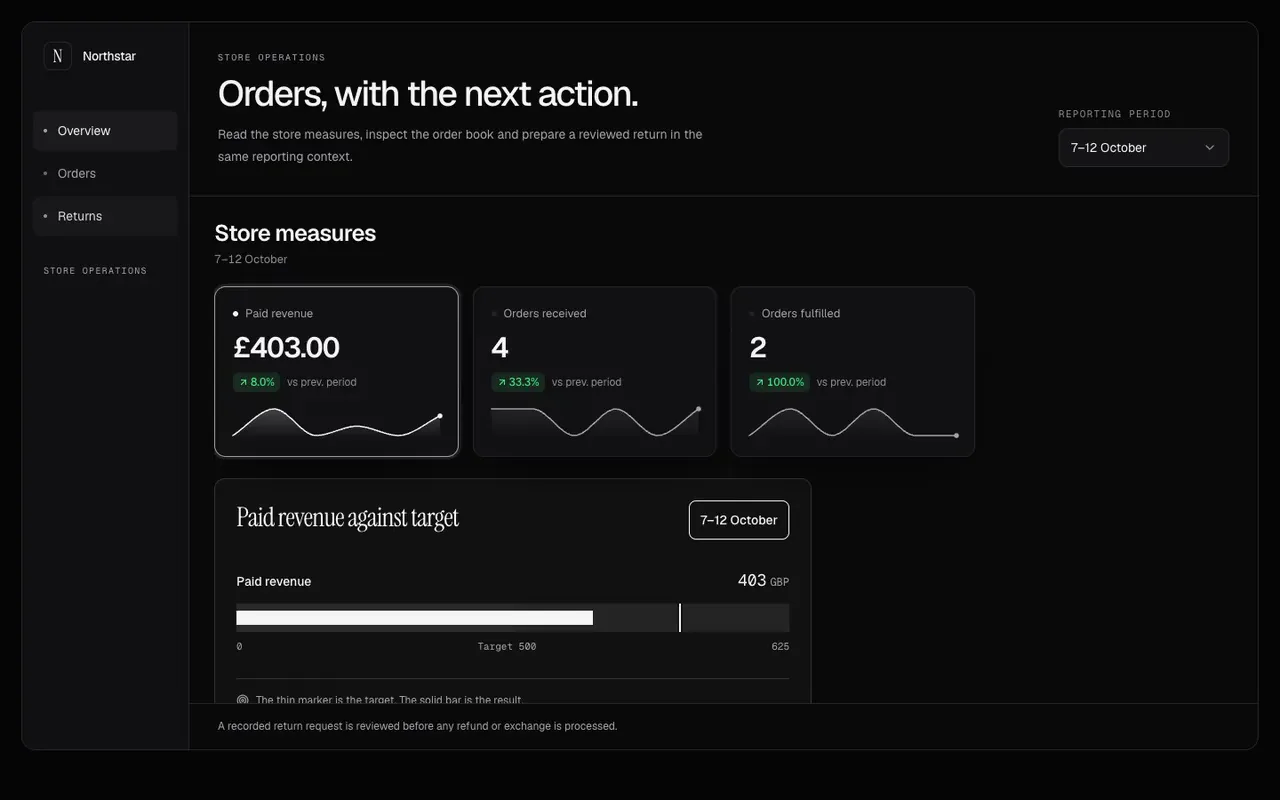
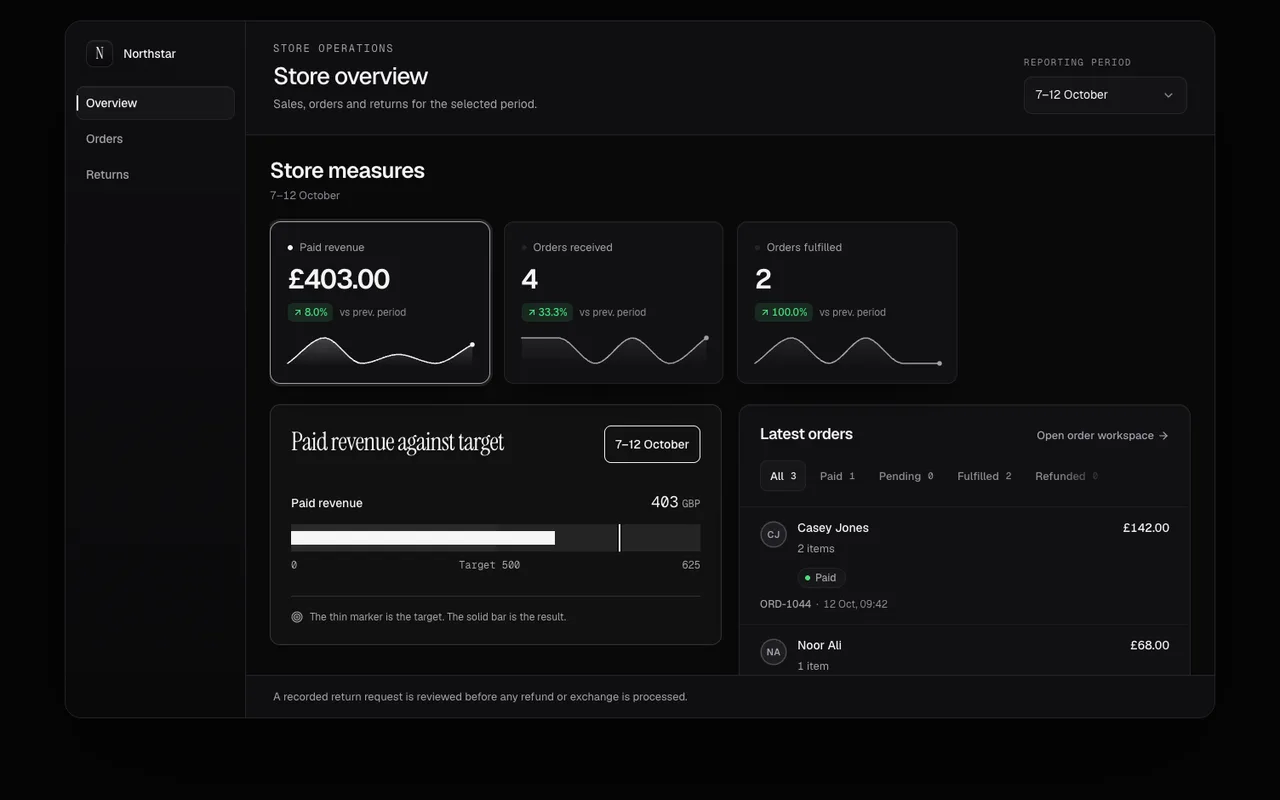
Verify commerce workspace flows and refresh its poster

diff --git a/docs/review/HANDOFF_TASKS.md b/docs/review/HANDOFF_TASKS.md
@@ -398,7 +398,18 @@ and how to know it's done. Pick any of them up independently. Background, briefs
 
 - Task 7 (19 October): Folding Breadcrumb retains its compact route rail, real ancestor links and plain current-page label. Stable href/occurrence keys preserve focus through ancestor reordering. Expanding and collapsing transfer focus to the surviving control; removing focused controls retains focus in the landmark without reclaiming it after an outside button or primary blank-space click. Wrapped ancestor labels retain inner padding. Its owned 320ms entrance settles immediately on live reduced-motion changes. Three original-source failures are retained. Its 39-mount source review, twenty accessibility audits, six widths, reviewed state/entrance captures, Next and existing input regressions, theme control, official audit and exact folded/expanded/refolded replay pass. Native link navigation, keyboard disclosure, empty and short paths, long copy, independent landmarks and every phone preview state at 320/390px are covered. The API stays unchanged. Strict registry, root/isolated types and all 1,066 tests pass. Its reviewed 3.8s film and paired poster retain the folded, expanded and refolded path in the measured 832×600 frame: source gap 11ms, delivery 13.55ms and moving-frame p95 25.60ms, with no stalls and unchanged guards. The next complete batch has 65 suites and 94 metadata replays and remains pending. 0 components and 12 blocks remain; 117 films remain queued.
 
-## 1. Re-record demo videos (117 components)
+- Task 7 (19 October): Commerce Workspace now uses compact view-specific headings, a target/order overview that expands across wide containers and one store identity throughout Returns. Modified order links preserve browser intent; empty copy and disabled selectors name their period/order context. Separate period/order drafts, retry, pending requests across period changes, unavailable handlers, arriving data and phone action reachability pass. Its 33-mount source review, 32 accessibility audits, six widths and all 46 reviewed state/entrance captures pass. The registered workflow retains the contrast and narrow-card dependency regressions. Normal-motion headings must finish visibly in the actual Next preview. All eight block metadata replays pass; Commerce verifies item/reason changes, editing, review and the final read-only request receipt. Controls, official audit, strict registry, root/all-eleven-block types and all 1,066 unit tests pass. The public API and Pro dependency boundary stay unchanged. Its reviewed settled Next poster is current. The film fails unchanged timing guards (source gap 37ms, delivery 106.73ms and moving-frame p95 25.93ms; one 109.45ms moving-frame gap); the old film is retained and rejected raw evidence stays local. This is the first completed block review. Ten blocks, 59 older probes and 118 films remain. The next complete batch release checkpoint remains pending.
+
+Block replay verification (19 October): the full software-rendered run missed People onboarding. Unchanged
+isolated software and native runs both pass, but software records a 3,033.5ms frame gap versus 40.8ms native.
+A deliberate 2,200ms settling-timer stall suppresses the same navigation click and end state. The original
+failure had no frame trace, so its exact cause remains an inference. Block metadata replays now use native
+rendering, matching component replays, with all target, settling and final-state assertions retained. All eight
+pass together, followed by a fresh Commerce replay after its final empty-selector copy change. Future failures
+save their screenshot, body and error. The corrected viewport restoration also keeps Commerce's phone checks
+from changing subsequent block tests. Original failures and diagnostics remain local.
+
+## 1. Re-record demo videos (118 components)
 
 Every rebuilt component's poster is current but its catalogue film (`public/previews/<slug>.mp4`) still shows the old
 version. Record them one at a time on an otherwise idle machine; the recorder rejects frame stalls under load.
@@ -417,6 +428,7 @@ slug or per small group). Notes:
 
 Slugs:
 
+`block-commerce-workspace`
 `date-booking-slots`
 `onboarding-setup-checklist`
 `devtools-request-waterfall`
@@ -550,9 +562,9 @@ All nine parked rebuilds are shipped in both repos. Their original `_wip/<slug>`
 | finance-budget-variance | Completed 17 October: Next probe, dark/light accessibility, responsive and entrance/state captures, live demo and refreshed poster pass. |
 | finance-cashflow-dashboard | Completed 17 October: weekly balance and in/out bars, movable payments, independent pending saves, invalid-data guards, selected-week list geometry, Next probe/demo, both-theme accessibility, responsive/state/entrance captures and refreshed poster pass. |
 
-## 7. Continue the review (11 blocks)
+## 7. Continue the review (10 blocks)
 
-Same process as the 198 already done: hold each to the first ~100 components' standard. Briefs:
+Same process as the 199 already done: hold each to the first ~100 components' standard. Briefs:
 `docs/review/REVIEW_BRIEF.md`, `docs/review/SUITE_BRIEF.md` for industry components, suite languages in
 `docs/review/suites/`. Work newest first, about four components per batch, and verify each (build, tsc, tests,
 check-component, your own captures of states and mid-entrance frames, a refreshed poster, a rewritten pro-50 probe for
@@ -594,14 +606,14 @@ The original phone failure is preserved. Both-theme phone regression and accessi
 with the complete registered Commerce workflow. The light desktop capture is byte-identical to its
 reference; the reviewed dark capture differs only in eight pixels around its Paid status dot. Strict
 registry, root/eleven-block types and all 1,066 unit tests pass. The private fix is `87da4af`. The full
-Commerce review is being recaptured with this dependency; eleven blocks remain open.
+Commerce completed its full review with this dependency; ten other blocks remain open.
 
 - **Commerce** is reviewed. Keep `block-commerce-workspace` compatible with its rebuilt parts.
 - **Smaller components** (#151–179) are reviewed.
-- **Blocks**, after their parts: the 11 published `block-*` components. Many parts changed their look and some their props;
+- **Blocks**, after their parts: ten of the eleven published `block-*` components remain. Commerce Workspace is reviewed. Many parts changed their look and some their props;
   re-check each block composes well with the rebuilt parts and still reads as one product. The earlier count of 12 was stale: both source repositories and all published `kind: "block"` metadata contain these eleven, with every declared dependency available.
 
-`block-commerce-workspace`, `block-fashion-workspace`, `block-financial-report`,
+`block-fashion-workspace`, `block-financial-report`,
 `block-legal-workspace`, `block-meetings-workspace`, `block-music-workspace`,
 `block-people-workspace`, `block-saas-dashboard`, `block-saas-landing`,
 `block-team-workspace`, `block-workspace-settings`.

diff --git a/docs/review/STATUS.md b/docs/review/STATUS.md
@@ -1,6 +1,6 @@
 # Review status
 
-198 components are rebuilt (or, for a few, polished), verified and committed. For each: whether its demo video
+199 components are rebuilt (or, for a few, polished), verified and committed. For each: whether its demo video
 needs re-recording, whether its poster is current, and the state of its browser regression probe.
 
 - **Video**: `new` means `public/previews/<slug>.mp4` still shows the old version. Re-record serially on a quiet machine:
@@ -21,7 +21,9 @@ Pagination phone capture has 20 outline-edge pixels changed and is visually appr
 root/isolated types and all **1,066 unit tests** pass. The Worker dry run passes unchanged limits at
 **2,655,633 router bytes, 57,504,702 runtime bytes and 4,778,914 compressed source-map bytes**. Both source
 snapshots and standing change status remain fixed through the release checks. No deployment was performed.
-The corrected remaining inventory is **11 published blocks, 59 older probes and 117 films**.
+Commerce Workspace is now the first completed block review. Its current checks are recorded below; the next
+complete batch release checkpoint remains pending. The remaining inventory is **10 blocks, 59 older probes
+and 118 films**.
 
 ## Previous workspace/input checkpoint (19 October 2026)
 
@@ -375,3 +377,4 @@ See [the handoff checkpoint](HANDOFF_TASKS.md#8-final-release-checks) for revisi
 | `content-accordion-index` | current | current | Editorial Question Index retains its serif heading, numbered questions and measured answer text. Stable item IDs preserve disclosure focus through reordering; owned 320ms card and 240ms answer entrances settle immediately on live reduced-motion changes. Closed answer text leaves the document while labelled disclosure targets remain valid. Two original-source failures are retained. Its 31-mount source review, twenty-two accessibility audits, six widths, reviewed state/entrance captures, Next regression, theme control, official audit and exact three-answer replay pass. Keyboard opening/closure, synchronous observer payloads, absent observers, empty and arriving questions, replacement data, long copy and independent instances are covered. Every answer fits the original 640px phone preview at 320/390px. The API stays unchanged. Strict registry, root/isolated types and all 1,066 tests pass. Its reviewed 3.8s film and paired poster retain the handover, timeline and scope-change answers in the measured 832×680 frame: source gap 34ms, delivery 24.03ms and moving-frame p95 24.75ms, with no stalls and unchanged guards. The next 65-suite / 92-replay batch remains pending. |
 | `feedback-inline-alert` | current | current | Actionable Inline Notice retains its restrained semantic icon and optional action row. Replaced content retires pending UI and stale replies, while equivalent host renders retain the active operation and use current failure copy. The pending action retains keyboard focus with aria-disabled, without reclaiming it after Tab leaves the notice. Immediate busy guards block keyboard/pointer reactivation and dismissal in the same event turn; unmounted requests cannot change a new instance. Its owned 320ms entry settles on live reduced-motion changes, wrapped actions retain inner padding and their arrow keeps its width. Rendered integration commentary is removed. Four original-source failures are retained. Its 33-mount source review, twenty accessibility audits, six widths, reviewed state/entrance captures, Next and existing input regressions, theme control, official audit and exact archive-opening replay pass. Keyboard action/retry, rejected and pending callbacks, replacement notices, absent handlers, long text and independent instances are covered. The awaited action and synchronous host dismissal API stays unchanged. Strict registry, root/isolated types and all 1,066 tests pass. Its reviewed 3.1s film and paired poster retain the ready and opened document archive in the measured 832×600 frame: source gap 10ms, delivery 4.91ms; no sustained-motion interval, with no stalls and unchanged guards. The next 65-suite / 93-replay batch remains pending. |
 | `navigation-breadcrumb-fold` | current | current | Folding Breadcrumb retains its compact route rail, real ancestor links and plain current-page label. Stable href/occurrence keys preserve focus through ancestor reordering. Expanding and collapsing transfer focus to the surviving control; removing focused controls retains focus in the landmark without reclaiming it after an outside button or primary blank-space click. Wrapped ancestor labels retain inner padding. Its owned 320ms entrance settles immediately on live reduced-motion changes. Three original-source failures are retained. Its 39-mount source review, twenty accessibility audits, six widths, reviewed state/entrance captures, Next and existing input regressions, theme control, official audit and exact folded/expanded/refolded replay pass. Native link navigation, keyboard disclosure, empty and short paths, long copy, independent landmarks and every phone preview state at 320/390px are covered. The API stays unchanged. Strict registry, root/isolated types and all 1,066 tests pass. Its reviewed 3.8s film and paired poster retain the folded, expanded and refolded path in the measured 832×600 frame: source gap 11ms, delivery 13.55ms and moving-frame p95 25.60ms, with no stalls and unchanged guards. The next 65-suite / 94-replay batch remains pending. |
+| `block-commerce-workspace` | new | current | Commerce Workspace now uses compact view-specific headings, a target/order overview that expands across wide containers and one store identity throughout Returns. Modified order links preserve browser intent; empty copy and disabled selectors name their period/order context. Separate period/order drafts, retry, pending requests across period changes, unavailable handlers, arriving data and phone action reachability pass. Its 33-mount source review, 32 accessibility audits, six widths and all 46 reviewed state/entrance captures pass. The registered workflow retains the contrast and narrow-card dependency regressions. Normal-motion headings must finish visibly in the actual Next preview. All eight block metadata replays pass; Commerce verifies item/reason changes, editing, review and the final read-only request receipt. Controls, official audit, strict registry, root/all-eleven-block types and all 1,066 unit tests pass. The public API and Pro dependency boundary stay unchanged. Its reviewed settled Next poster is current. The film fails unchanged timing guards (source gap 37ms, delivery 106.73ms and moving-frame p95 25.93ms; one 109.45ms moving-frame gap); the old film is retained and rejected raw evidence stays local. The next complete batch release checkpoint remains pending. |
